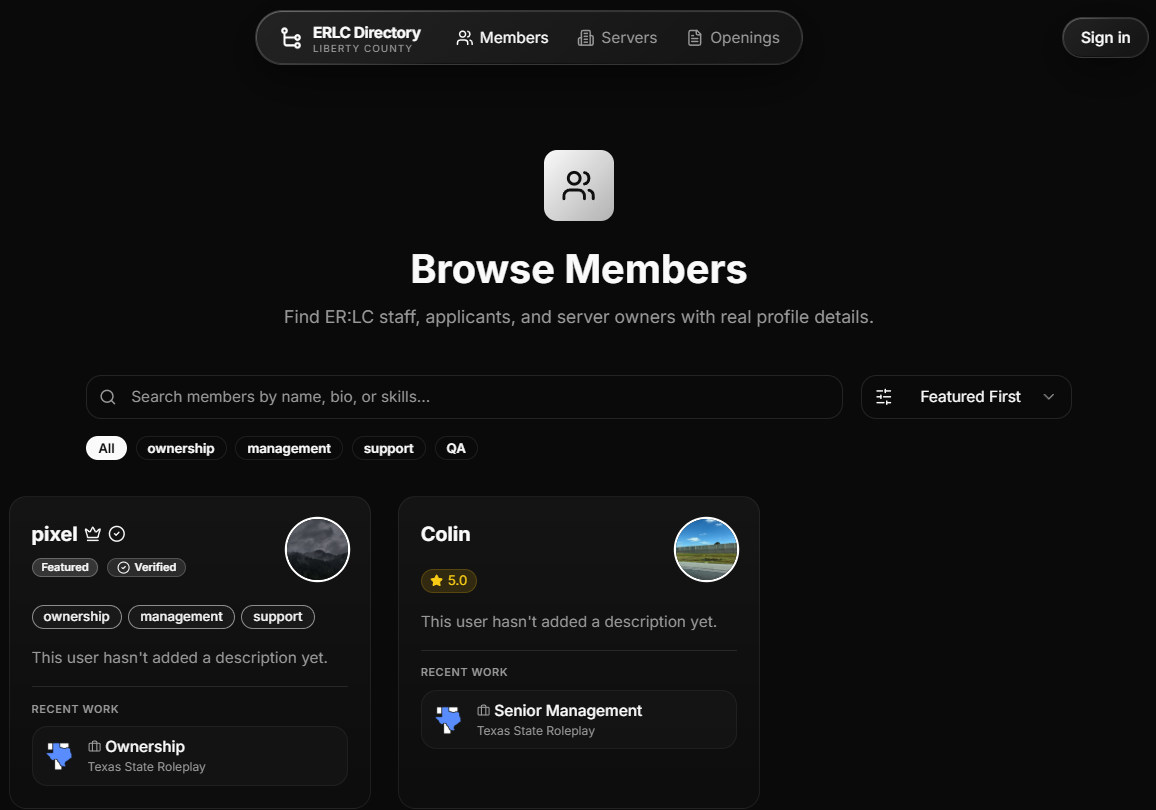
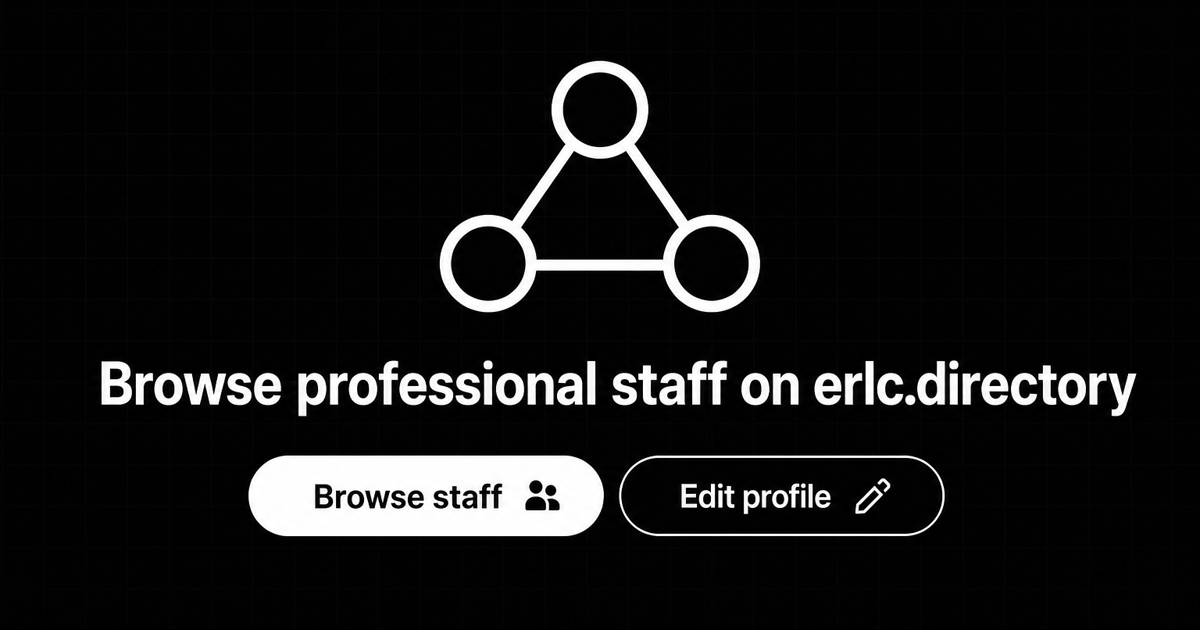
feat(og): landing-hero Discord embed image and cache-bust URL
Replace public/embed.png with a 1200×630 hero-style Open Graph asset (dark grid, centered mark, headline and CTAs) so link previews match the home page instead of the members browse screenshot.

Append ?v=2 to og:image and twitter:image URLs in index.html, middleware, and ogCrawler so Discord and other caches pick up the new asset. Add og:image dimensions in index.html for consistency with crawler HTML.

diff --git a/index.html b/index.html
@@ -12,9 +12,11 @@
     <meta property="og:description" content="ER:LC staff directory — profiles, servers, posts, invites." />
     <meta property="og:url" content="https://www.erlc.directory/" />
     <meta property="og:type" content="website" />
-    <meta property="og:image" content="https://www.erlc.directory/embed.png" />
+    <meta property="og:image" content="https://www.erlc.directory/embed.png?v=2" />
+    <meta property="og:image:width" content="1200" />
+    <meta property="og:image:height" content="630" />
     <meta name="twitter:card" content="summary_large_image" />
-    <meta name="twitter:image" content="https://www.erlc.directory/embed.png" />
+    <meta name="twitter:image" content="https://www.erlc.directory/embed.png?v=2" />
   </head>
   <body>
     <div id="root"></div>

diff --git a/middleware.ts b/middleware.ts
@@ -89,7 +89,7 @@ export default function middleware(request: Request): Response | Promise<Respons
     const afterPrefix = path.slice('/verify/'.length);
     if (afterPrefix && !afterPrefix.includes('/') && isEmbed) {
       const canonicalUrl = `${url.origin}${url.pathname}${url.search}`;
-      const imageUrl = `${url.origin}/embed.png`;
+      const imageUrl = `${url.origin}/embed.png?v=2`;
       const title = `Verify — ${SITE_NAME}`;
       const description = `${SITE_DESCRIPTION} Sign in with Discord to confirm.`;
       return new Response(
@@ -112,7 +112,7 @@ export default function middleware(request: Request): Response | Promise<Respons
   }
 
   const canonicalUrl = `${url.origin}${url.pathname}${url.search}`;
-  const imageUrl = `${url.origin}/embed.png`;
+  const imageUrl = `${url.origin}/embed.png?v=2`;
 
   return new Response(
     ogDocument({

diff --git a/server/ogCrawler.ts b/server/ogCrawler.ts
@@ -100,7 +100,7 @@ export function getCrawlerOgResponse(request: Request): Response | null {
     const afterPrefix = pathname.slice('/verify/'.length);
     if (afterPrefix && !afterPrefix.includes('/') && isEmbed) {
       const canonicalUrl = `${url.origin}${url.pathname}${url.search}`;
-      const imageUrl = `${url.origin}/embed.png`;
+      const imageUrl = `${url.origin}/embed.png?v=2`;
       const title = `Verify experience — ${SITE_NAME}`;
       const description = `${SITE_DESCRIPTION} Open this link to confirm staff experience with your Discord login.`;
       return new Response(
@@ -122,7 +122,7 @@ export function getCrawlerOgResponse(request: Request): Response | null {
   if (!isEmbed) return null;
 
   const canonicalUrl = `${url.origin}${url.pathname}${url.search}`;
-  const imageUrl = `${url.origin}/embed.png`;
+  const imageUrl = `${url.origin}/embed.png?v=2`;
 
   return new Response(
     ogDocument({